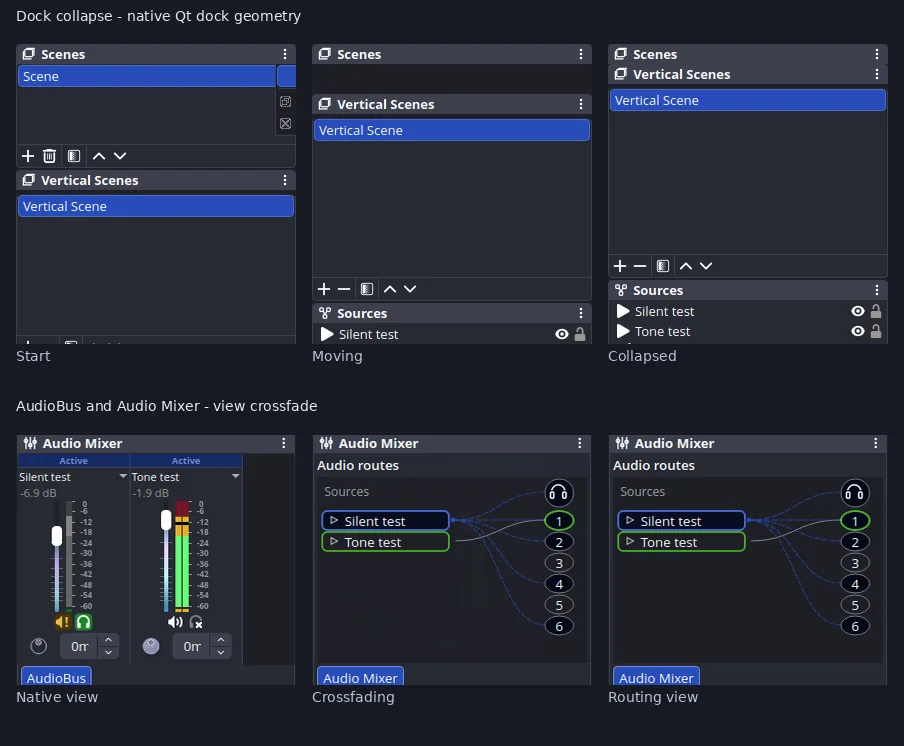
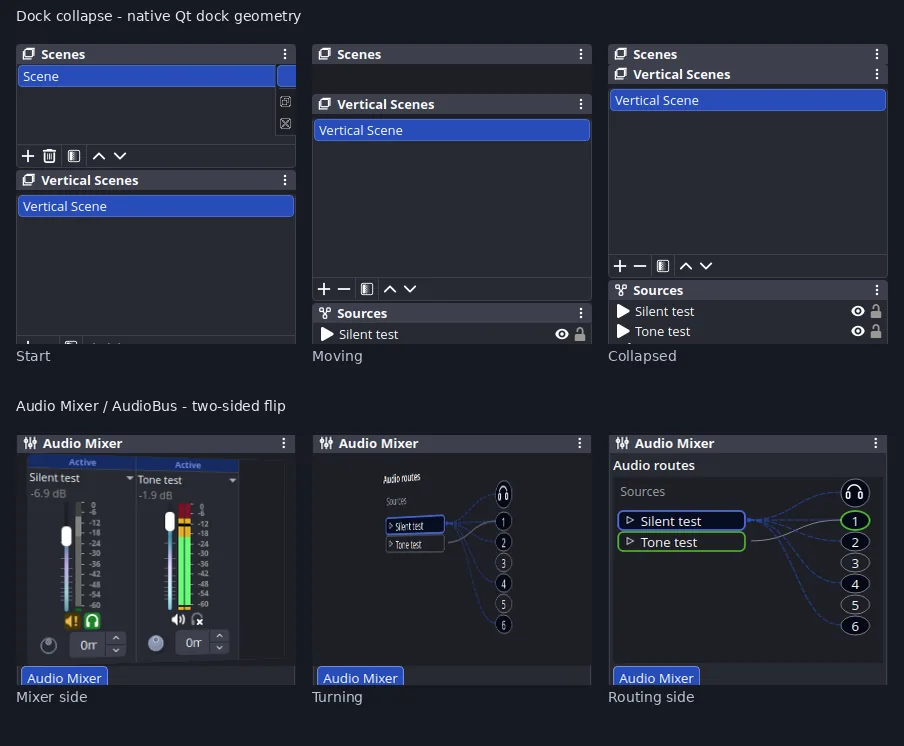
Flip dock backside with restrained two-sided motion

diff --git a/src/dock-faces.cpp b/src/dock-faces.cpp
@@ -16,10 +16,12 @@
 #include <QStyleOptionDockWidget>
 #include <QEvent>
 #include <QFontMetrics>
-#include <QGraphicsOpacityEffect>
-#include <QPropertyAnimation>
+#include <QVariantAnimation>
+#include <QPainter>
+#include <QPaintEvent>
+#include <QTransform>
 #include <QGuiApplication>
-#include <QLabel>
+#include <QtMath>
 #include <functional>
 
 namespace augment {
@@ -37,6 +39,61 @@ QToolButton *button(QWidget *parent,const char *name,const QString &tooltip,
     result->setAccessibleName(tooltip);
     return result;
 }
+// A paint-only, short two-sided flip. Neither real OBS widget is transformed
+// or reassigned a graphics effect. Frame images are captured only once, not
+// repeatedly on every paint; the animation remains inside the original dock.
+class FlipFrame final : public QWidget {
+public:
+    FlipFrame(QPixmap outgoing,QPixmap incoming,QWidget *parent)
+        :QWidget(parent),outgoing_(std::move(outgoing)),incoming_(std::move(incoming)){
+        setObjectName("aftermarket-view-flip");
+        setAttribute(Qt::WA_TransparentForMouseEvents);
+        setFocusPolicy(Qt::NoFocus);
+    }
+    void setProgress(qreal value){
+        progress_=qBound(qreal(0),value,qreal(1));
+        update();
+    }
+protected:
+    void paintEvent(QPaintEvent *) override {
+        QPainter painter(this);
+        painter.fillRect(rect(),palette().color(QPalette::Window));
+        if(width()<=0||height()<=0)return;
+        const bool first=progress_<0.5;
+        const QPixmap &face=first?outgoing_:incoming_;
+        if(face.isNull())return;
+        const qreal halfTurn=first?progress_*2:(1-progress_)*2;
+        const qreal angle=halfTurn*M_PI_2;
+        const qreal amount=qCos(angle);
+        if(amount<0.01)return;
+        const qreal halfWidth=width()*amount/2;
+        const qreal cx=width()/2.0;
+        const qreal inset=height()*0.09*qSin(angle);
+        // One vertical edge recedes as the card rotates away; the other
+        // recedes as the second side turns in. The perspective is intentionally
+        // restrained to avoid a distracting gimmick in a working mixer.
+        const qreal leftInset=first?0:inset;
+        const qreal rightInset=first?inset:0;
+        const QPolygonF target{
+            QPointF(cx-halfWidth,leftInset),
+            QPointF(cx+halfWidth,rightInset),
+            QPointF(cx+halfWidth,height()-rightInset),
+            QPointF(cx-halfWidth,height()-leftInset)
+        };
+        const qreal pixelRatio=face.devicePixelRatio();
+        const QRectF bounds(0,0,face.width()/pixelRatio,face.height()/pixelRatio);
+        const QPolygonF source{bounds.topLeft(),bounds.topRight(),
+                               bounds.bottomRight(),bounds.bottomLeft()};
+        QTransform perspective;
+        if(!QTransform::quadToQuad(source,target,perspective))return;
+        painter.setRenderHint(QPainter::SmoothPixmapTransform);
+        painter.setTransform(perspective);
+        painter.drawPixmap(bounds,face,QRectF(QPointF(0,0),face.size()/pixelRatio));
+    }
+private:
+    QPixmap outgoing_,incoming_;
+    qreal progress_=0;
+};
 }
 struct DockFaces::State {
     struct Entry {
@@ -48,7 +105,7 @@ struct DockFaces::State {
         QPointer<QStackedWidget> stack;
         QPointer<QToolButton> flip,prev,next;
         QPointer<QWidget> accessory;
-        QPointer<QLabel> fade;
+        QPointer<FlipFrame> transition;
         bool wasHidden=false;
     };
     QHash<QDockWidget*,Entry> entries;
@@ -161,7 +218,7 @@ bool DockFaces::addFrontAccessory(QDockWidget *dock,QWidget *accessory){
 bool DockFaces::detach(QDockWidget *dock) {
     auto it=state->entries.find(dock);
     if(it==state->entries.end())return false;
-    if(it->fade)delete it->fade.data();
+    if(it->transition)delete it->transition.data();
     const State::Entry e=it.value();
     state->entries.erase(it);
     if(e.dock)e.dock->removeEventFilter(this);
@@ -196,44 +253,39 @@ bool DockFaces::showBack(QDockWidget *dock,bool visible) {
     auto *stack=it->stack.data();
     auto *destination=visible?it->alternate.data():it->native.data();
     if(stack->currentWidget()==destination)return true;
-    // Clear an interrupted transition rather than stacking screenshots.
-    if(it->fade)delete it->fade.data();
-    it->fade=nullptr;
+    // Keep only the latest transition during rapid user reversals.
+    if(it->transition)delete it->transition.data();
+    it->transition=nullptr;
     const bool animate=state->motionEnabled&&state->motionEnabled()&&
         stack->isVisible()&&stack->width()>0&&stack->height()>0&&
         stack->style()->styleHint(QStyle::SH_Widget_Animate,nullptr,stack);
-    // A short, click-through snapshot fades away over the real new page.
-    // The original OBS mixer keeps its native widget and rendering unchanged.
-    const QPixmap previous=animate?stack->grab():QPixmap{};
+    const QPixmap outgoing=animate?stack->grab():QPixmap{};
     stack->setCurrentWidget(destination);
-    if(!previous.isNull()){
-        auto *overlay=new QLabel(stack);
-        overlay->setObjectName("aftermarket-view-fade");
-        overlay->setAttribute(Qt::WA_TransparentForMouseEvents);
-        overlay->setFocusPolicy(Qt::NoFocus);
-        overlay->setPixmap(previous);
-        overlay->setScaledContents(true);
-        overlay->setGeometry(stack->rect());
-        auto *opacity=new QGraphicsOpacityEffect(overlay);
-        overlay->setGraphicsEffect(opacity);
-        overlay->show();
-        overlay->raise();
-        auto *animation=new QPropertyAnimation(opacity,"opacity",overlay);
-        animation->setObjectName("aftermarket-view-fade-motion");
-        animation->setDuration(155);
-        animation->setStartValue(1.0);
-        animation->setEndValue(0.0);
-        animation->setEasingCurve(QEasingCurve::OutCubic);
-        QPointer<QLabel> safe=overlay;
+    const QPixmap incoming=animate?stack->grab():QPixmap{};
+    if(!outgoing.isNull()&&!incoming.isNull()){
+        auto *surface=new FlipFrame(outgoing,incoming,stack);
+        surface->setGeometry(stack->rect());
+        surface->show();
+        surface->raise();
+        auto *animation=new QVariantAnimation(surface);
+        animation->setObjectName("aftermarket-view-flip-motion");
+        animation->setDuration(210);
+        animation->setStartValue(0.0);
+        animation->setEndValue(1.0);
+        animation->setEasingCurve(QEasingCurve::InOutSine);
+        QPointer<FlipFrame> safe=surface;
         QPointer<QDockWidget> target=dock;
-        connect(animation,&QPropertyAnimation::finished,this,[this,target,safe]{
+        connect(animation,&QVariantAnimation::valueChanged,surface,[safe](const QVariant &v){
+            if(safe)safe->setProgress(v.toReal());
+        });
+        connect(animation,&QVariantAnimation::finished,this,[this,target,safe]{
             if(target){
                 auto it=state->entries.find(target);
-                if(it!=state->entries.end()&&it->fade==safe)it->fade=nullptr;
+                if(it!=state->entries.end()&&it->transition==safe)it->transition=nullptr;
             }
             if(safe)safe->deleteLater();
         });
-        it->fade=overlay;
+        it->transition=surface;
         animation->start();
     }
     // The native dock title already renders the real name.

diff --git a/tests/dock-faces-test.cpp b/tests/dock-faces-test.cpp
@@ -12,8 +12,7 @@
 #include <QVBoxLayout>
 #include <QStyle>
 #include <QStyleOptionDockWidget>
-#include <QPropertyAnimation>
-#include <QGraphicsOpacityEffect>
+#include <QVariantAnimation>
 #include <QEventLoop>
 #include <QTimer>
 #include <iostream>
@@ -101,28 +100,40 @@ int main(int argc,char **argv) {
   REQUIRE(flip->text()=="AudioBus");
   REQUIRE(flip->toolTip().contains("routing",Qt::CaseInsensitive));
   REQUIRE(knobs->isVisible());
-  // Global Motion opt-in adds a click-through visual overlay; it must NOT
-  // alter OBS native widget effects, state or ownership.
+  // With Motion on, a single click-through flip animates two paint-only
+  // snapshots. The actual mixer/routing widgets retain identity, ownership
+  // and native effects, and become interactive immediately underneath it.
   motionOn=true;
   flip->click();app.processEvents();
   REQUIRE(faces.backVisible(a)&&back->isVisible());
-  auto *fade=stack->findChild<QWidget*>("aftermarket-view-fade");
-  REQUIRE(fade&&fade->isVisible());
-  REQUIRE(fade->testAttribute(Qt::WA_TransparentForMouseEvents));
-  REQUIRE(fade->graphicsEffect()!=nullptr);
+  auto *surface=stack->findChild<QWidget*>("aftermarket-view-flip");
+  REQUIRE(surface&&surface->isVisible());
+  REQUIRE(surface->testAttribute(Qt::WA_TransparentForMouseEvents));
+  REQUIRE(surface->focusPolicy()==Qt::NoFocus);
+  REQUIRE(surface->geometry()==stack->rect());
   REQUIRE(native->graphicsEffect()==nullptr&&back->graphicsEffect()==nullptr);
-  REQUIRE(fade->findChild<QPropertyAnimation*>("aftermarket-view-fade-motion"));
-  flip->click();app.processEvents(); // rapid reversal
+  auto *flipMotion=surface->findChild<QVariantAnimation*>("aftermarket-view-flip-motion");
+  REQUIRE(flipMotion&&flipMotion->state()==QAbstractAnimation::Running);
+  REQUIRE(flipMotion->duration()>=175&&flipMotion->duration()<=260);
+  // At midway the old face must fold out of view; the new face folds in.
+  // Compare real paint frames, not only the animation's running flag.
+  auto first=surface->grab().toImage();
+  QEventLoop foldLoop;
+  QTimer::singleShot(95,&foldLoop,&QEventLoop::quit);
+  foldLoop.exec();app.processEvents();
+  REQUIRE(surface->grab().toImage()!=first);
+  REQUIRE(stack->currentWidget()==back&&back->isVisible());
+  flip->click();app.processEvents(); // rapid reversal cancels previous
   REQUIRE(!faces.backVisible(a)&&native->isVisible());
-  REQUIRE(stack->findChildren<QWidget*>("aftermarket-view-fade").size()==1);
-  QEventLoop fadeLoop;
-  QTimer::singleShot(250,&fadeLoop,&QEventLoop::quit);
-  fadeLoop.exec();app.processEvents();
-  REQUIRE(stack->findChildren<QWidget*>("aftermarket-view-fade").isEmpty());
-  motionOn=false; // reduced-motion mode: no visual overlay
+  REQUIRE(stack->findChildren<QWidget*>("aftermarket-view-flip").size()==1);
+  QEventLoop finishLoop;
+  QTimer::singleShot(280,&finishLoop,&QEventLoop::quit);
+  finishLoop.exec();app.processEvents();
+  REQUIRE(stack->findChildren<QWidget*>("aftermarket-view-flip").isEmpty());
+  motionOn=false; // reduced-motion mode: immediate switch
   flip->click();app.processEvents();
   REQUIRE(faces.backVisible(a)&&back->isVisible());
-  REQUIRE(!stack->findChild<QWidget*>("aftermarket-view-fade"));
+  REQUIRE(!stack->findChild<QWidget*>("aftermarket-view-flip"));
   flip->click();app.processEvents();
   REQUIRE(!faces.backVisible(a)&&native->isVisible());
   auto *next=a->findChild<QToolButton*>("aftermarket-tab-next");

diff --git a/ACTIVE_WORK.md b/ACTIVE_WORK.md
@@ -2582,3 +2582,55 @@ Verification:
 
 Boundary: the actual user's running OBS must restart before displaying the
 updated label. No native dock action data or streaming settings are altered.
+
+## Slice 56 — two-sided dock backside flip (2026-11-23)
+
+Requested exploration: whether a card-flip animation between the front and
+back sides of an OBS dock would be feasible or excessive. Chosen a restrained
+210 ms half-turn in the existing DockFaces two-page Audio Mixer/AudioBus path,
+replacing (not layering over) the older 155 ms crossfade.
+
+Implementation:
+- Retained existing global Motion toggle, Qt animation style hint, bottom
+  AudioBus/Audio Mixer button and actual QStackedWidget page identities.
+  Motion disabled still switches immediately with no temporary widget.
+- New internal FlipFrame paints two QPixmap snapshots, captured once from
+  the outgoing and newly selected real native pages. A 210 ms InOutSine
+  QVariantAnimation drives a horizontal pseudo-perspective half-turn:
+  outgoing face folds to the center; incoming face unfolds. The temporary
+  overlay has no focus or mouse input, uses the current Qt palette for its
+  background and is deleted on completion, interruption, or dock detach.
+  The actual OBS mixer, AudioBus widgets, routing, and streams are never
+  rotated, duplicated, replaced, or assigned a graphics effect.
+- README Motion explanation and existing real-OBS screenshot montage updated
+  from crossfade to actual captured flip frames. No new preferences or
+  unrelated UI changes.
+
+Verification:
+- TDD red against prior crossfade: required temporary QWidget named
+  aftermarket-view-flip, bounded 175–260 ms QVariantAnimation, real pixel
+  changes after an intermediate frame, QStackedWidget identity preserved,
+  quick reversal clearing the earlier frame, no native QWidget effects,
+  and no overlay when Motion is disabled. Green with flip implementation.
+- Real isolated OBS 32.2.0 used native Audio Mixer and actual AudioBus
+  audio-route page in the same dock, with the expected module loaded from
+  the sandbox plugin path. Before, mid-turn and settled screenshots showed
+  visible intermediate geometry; the correct final routing page was active,
+  with no relevant OBS errors. Repeated using an isolated build exact binary
+  SHA256 aa0ada16bdf7eb89d7ed01cc8b6208e5ecf97e3a2c8f0c3981b7b517acdd2e9e,
+  with both frame change and destination-page change verified.
+- Concurrent unrelated dock-layout work appeared uncommitted in the shared
+  checkout while verifying. Preserved that work entirely and built the flip
+  separately from the checked-in HEAD plus only the modified source/test
+  files, in an ephemeral temporary directory outside Loam. Clean 90-target
+  CMake build without warnings. Original 24 tests each pass under appropriate
+  display backend: 23/24 in one XCB suite, and menu-bar-compact passes offscreen;
+  panels and obs-routing pass under XCB but fail under unavailable/flaky
+  offscreen conditions. Thus no single 24/24 CTest invocation is claimed.
+- Existing user's running OBS session and actual plugin configuration were
+  not used for development; separate Xvfb/XDG config profiles only.
+
+Boundaries: only docks already managed by DockFaces get the flip (currently
+the Audio Mixer/AudioBus backside). No new global widget interception or
+animation engine, no forced motion, no remote push requested. Other in-flight
+dock-layout files are outside this change.

diff --git a/README.md b/README.md
@@ -615,16 +615,18 @@ a dock's **⋮ → Collapse / Expand** (or middle-clicking its native title) eas
 the real QDockWidget height over **165 ms**, with its original min/max size
 constraints restored after expansion. Tabbed, floating and custom-title
 docks remain governed by the existing native restrictions. Switching between
-**Audio Mixer and AudioBus** uses a **155 ms crossfade** of a click-through
-temporary snapshot; the original native OBS mixer and routing widgets
-are not duplicated, replaced or assigned an opacity effect. Reversing
-quickly cancels the earlier animation; emergency restoration leaves no
-temporary height constraint. Both are instantaneous with Motion off.
+**Audio Mixer and AudioBus** uses a restrained **210 ms horizontal flip**:
+two temporary snapshots turn around the middle of the existing dock, while
+the original OBS mixer and routing widgets stay in place. Nothing is rotated
+or assigned a graphics effect on the live native controls, and no extra
+animation is layered on top. Rapid reversals discard the earlier frame,
+and emergency recovery removes the animation. Both dock movements and
+page switching are instantaneous with Motion off.
 
 These are **OBS interface animations**, not OBS's video scene-transition
 effects. Aftermarket never invokes or replaces a streaming transition.
 
-![Native Qt dock collapse frames and AudioBus view crossfade in real isolated OBS](docs/screenshots/readme/ui-motion-docks-and-audiobus.webp)
+![Native Qt dock collapse and real OBS AudioBus half-turn frames](docs/screenshots/readme/ui-motion-docks-and-audiobus.webp)
 
 ```json
 {
